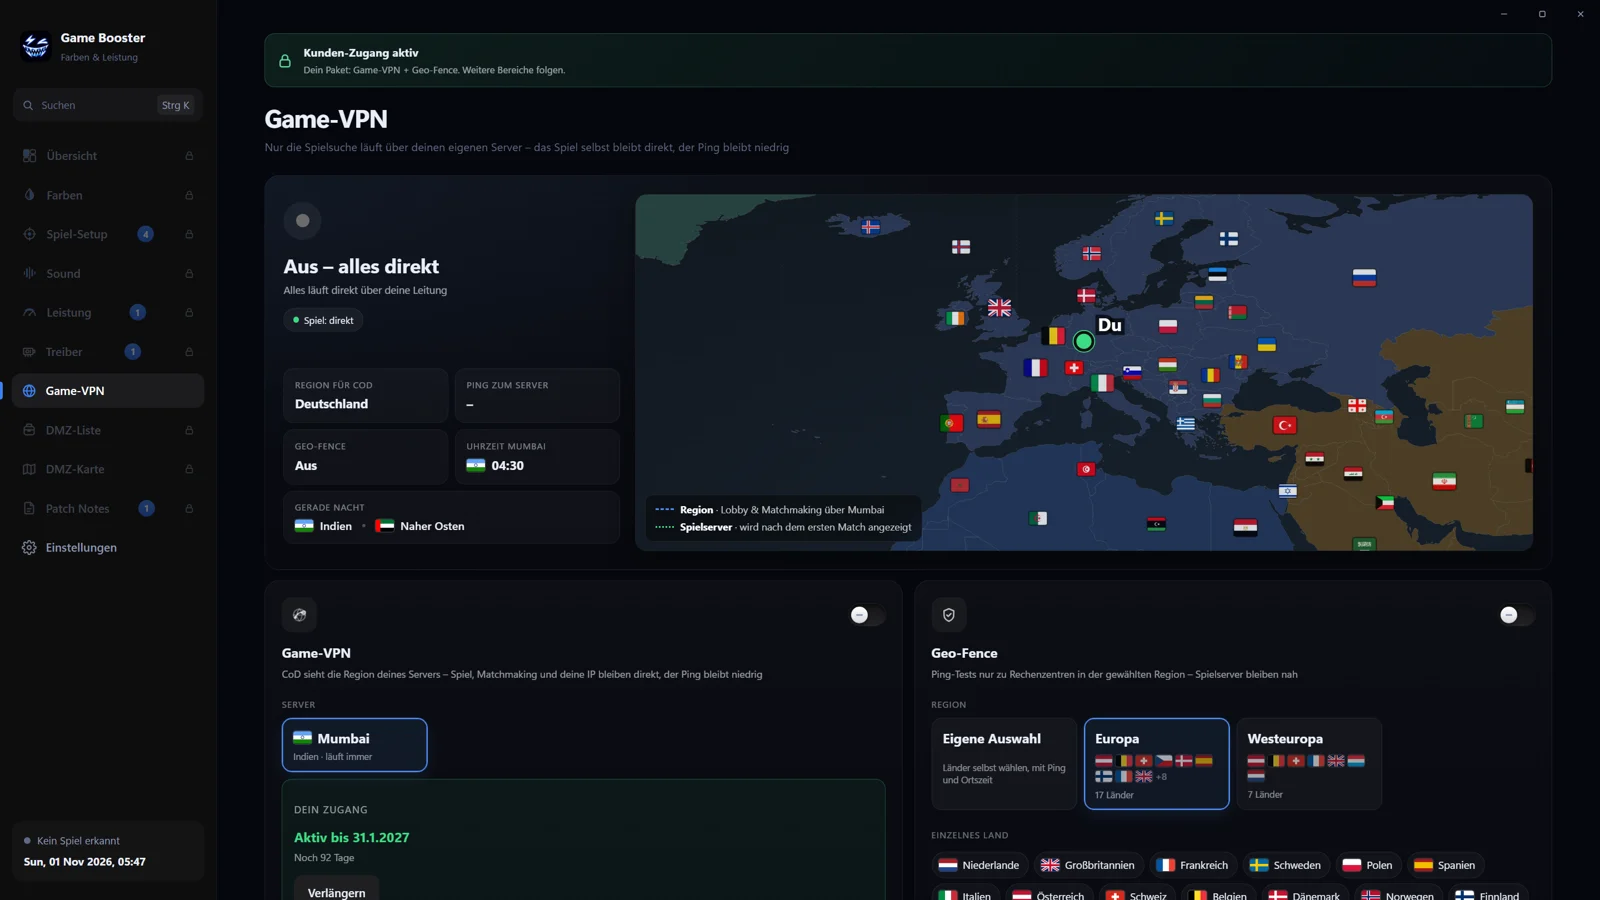
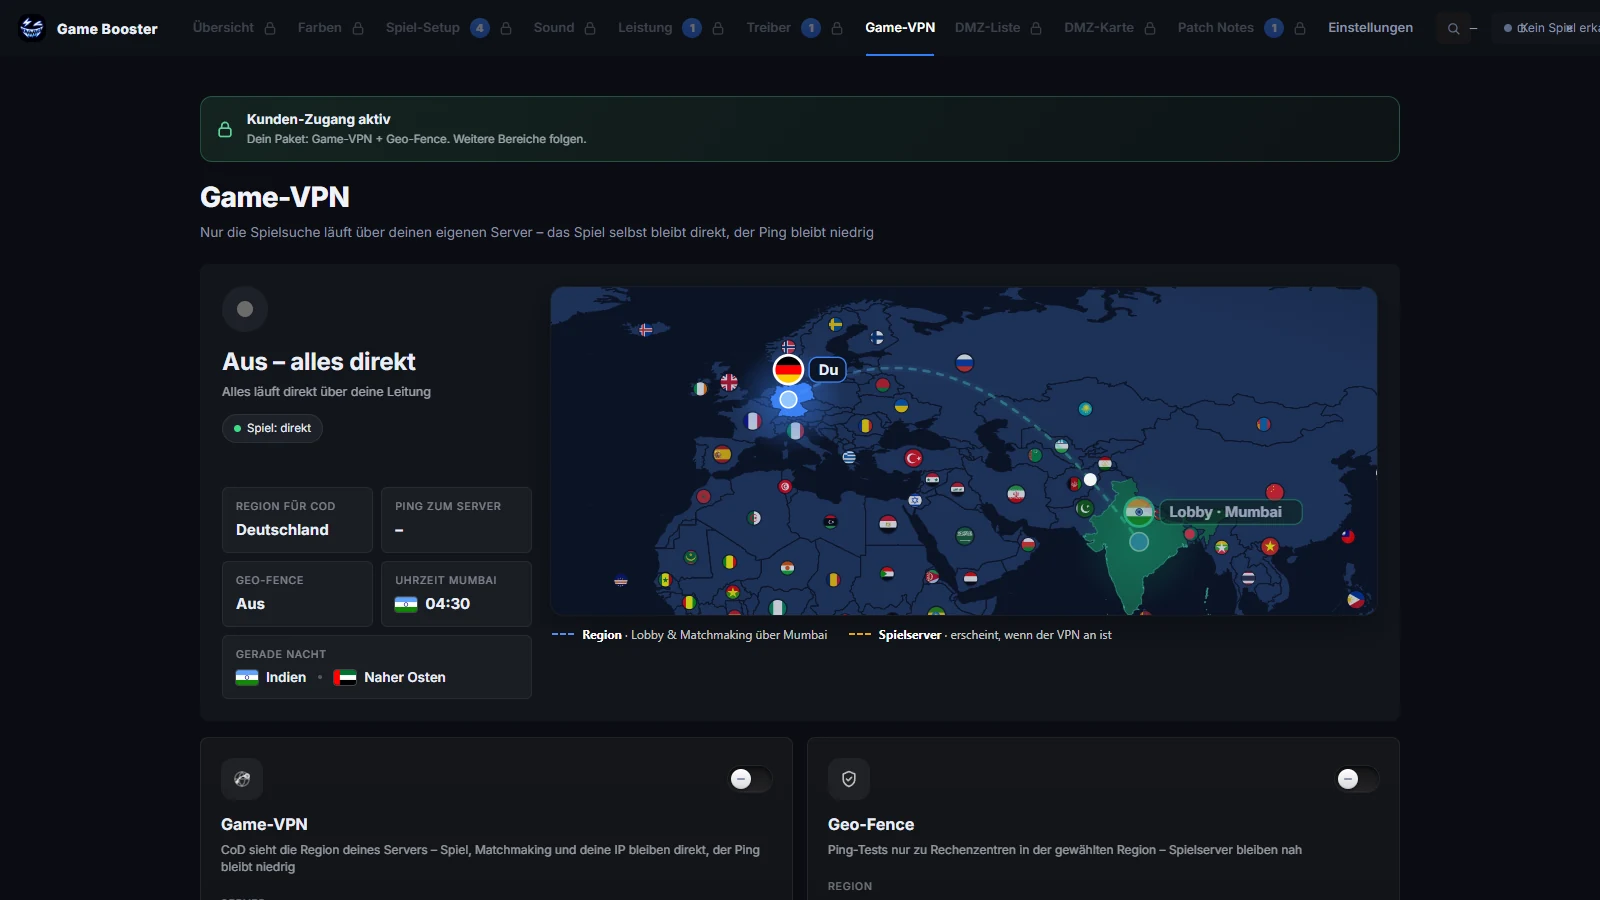
Webseite: Neuer App-Screenshot im Einblick
- Einblick zeigt die App im neuen Design (Tabs oben, neue Karte)

diff --git a/einblick.html b/einblick.html
@@ -77,7 +77,7 @@ body{overflow-x:hidden}
   <p>Ein Blick in deinen Kunden-Zugang – und das Ganze kurz im Video.</p>
 </div>
 <main>
-  <div class="stage"><div class="win"><div class="bar"><i></i><i></i><i></i><span>Game Booster – Kunden-Zugang</span></div><img src="img/app-vpn.webp" alt="Game-VPN-Tab der Game-Booster-App im Kunden-Zugang" width="1600" height="900"></div></div>
+  <div class="stage"><div class="win"><div class="bar"><i></i><i></i><i></i><span>Game Booster – Kunden-Zugang</span></div><img src="img/app-vpn.webp?v=2" alt="Game-VPN-Tab der Game-Booster-App im Kunden-Zugang" width="1600" height="900"></div></div>
   <div class="feat3">
     <div class="fc"><span class="ic"><svg viewBox="0 0 24 24" fill="none" stroke="currentColor" stroke-width="2" stroke-linecap="round" stroke-linejoin="round"><circle cx="12" cy="12" r="9"/><path d="M3 12h18M12 3c2.5 2.6 3.8 5.6 3.8 9s-1.3 6.4-3.8 9c-2.5-2.6-3.8-5.6-3.8-9S9.5 5.6 12 3z"/></svg></span><h4>Game-VPN über Mumbai</h4><p>Nur die Spielsuche läuft über den Server – das Spiel selbst bleibt direkt, dein Ping bleibt niedrig.</p></div>
     <div class="fc"><span class="ic"><svg viewBox="0 0 24 24" fill="none" stroke="currentColor" stroke-width="2" stroke-linecap="round" stroke-linejoin="round"><path d="M12 21s-7-6.2-7-11.5a7 7 0 0 1 14 0C19 14.8 12 21 12 21z"/><circle cx="12" cy="9.5" r="2.5"/></svg></span><h4>Karte mit Spielserver</h4><p>Du siehst live, wo dein Match wirklich läuft – und ob Region und Geo-Fence greifen.</p></div>
